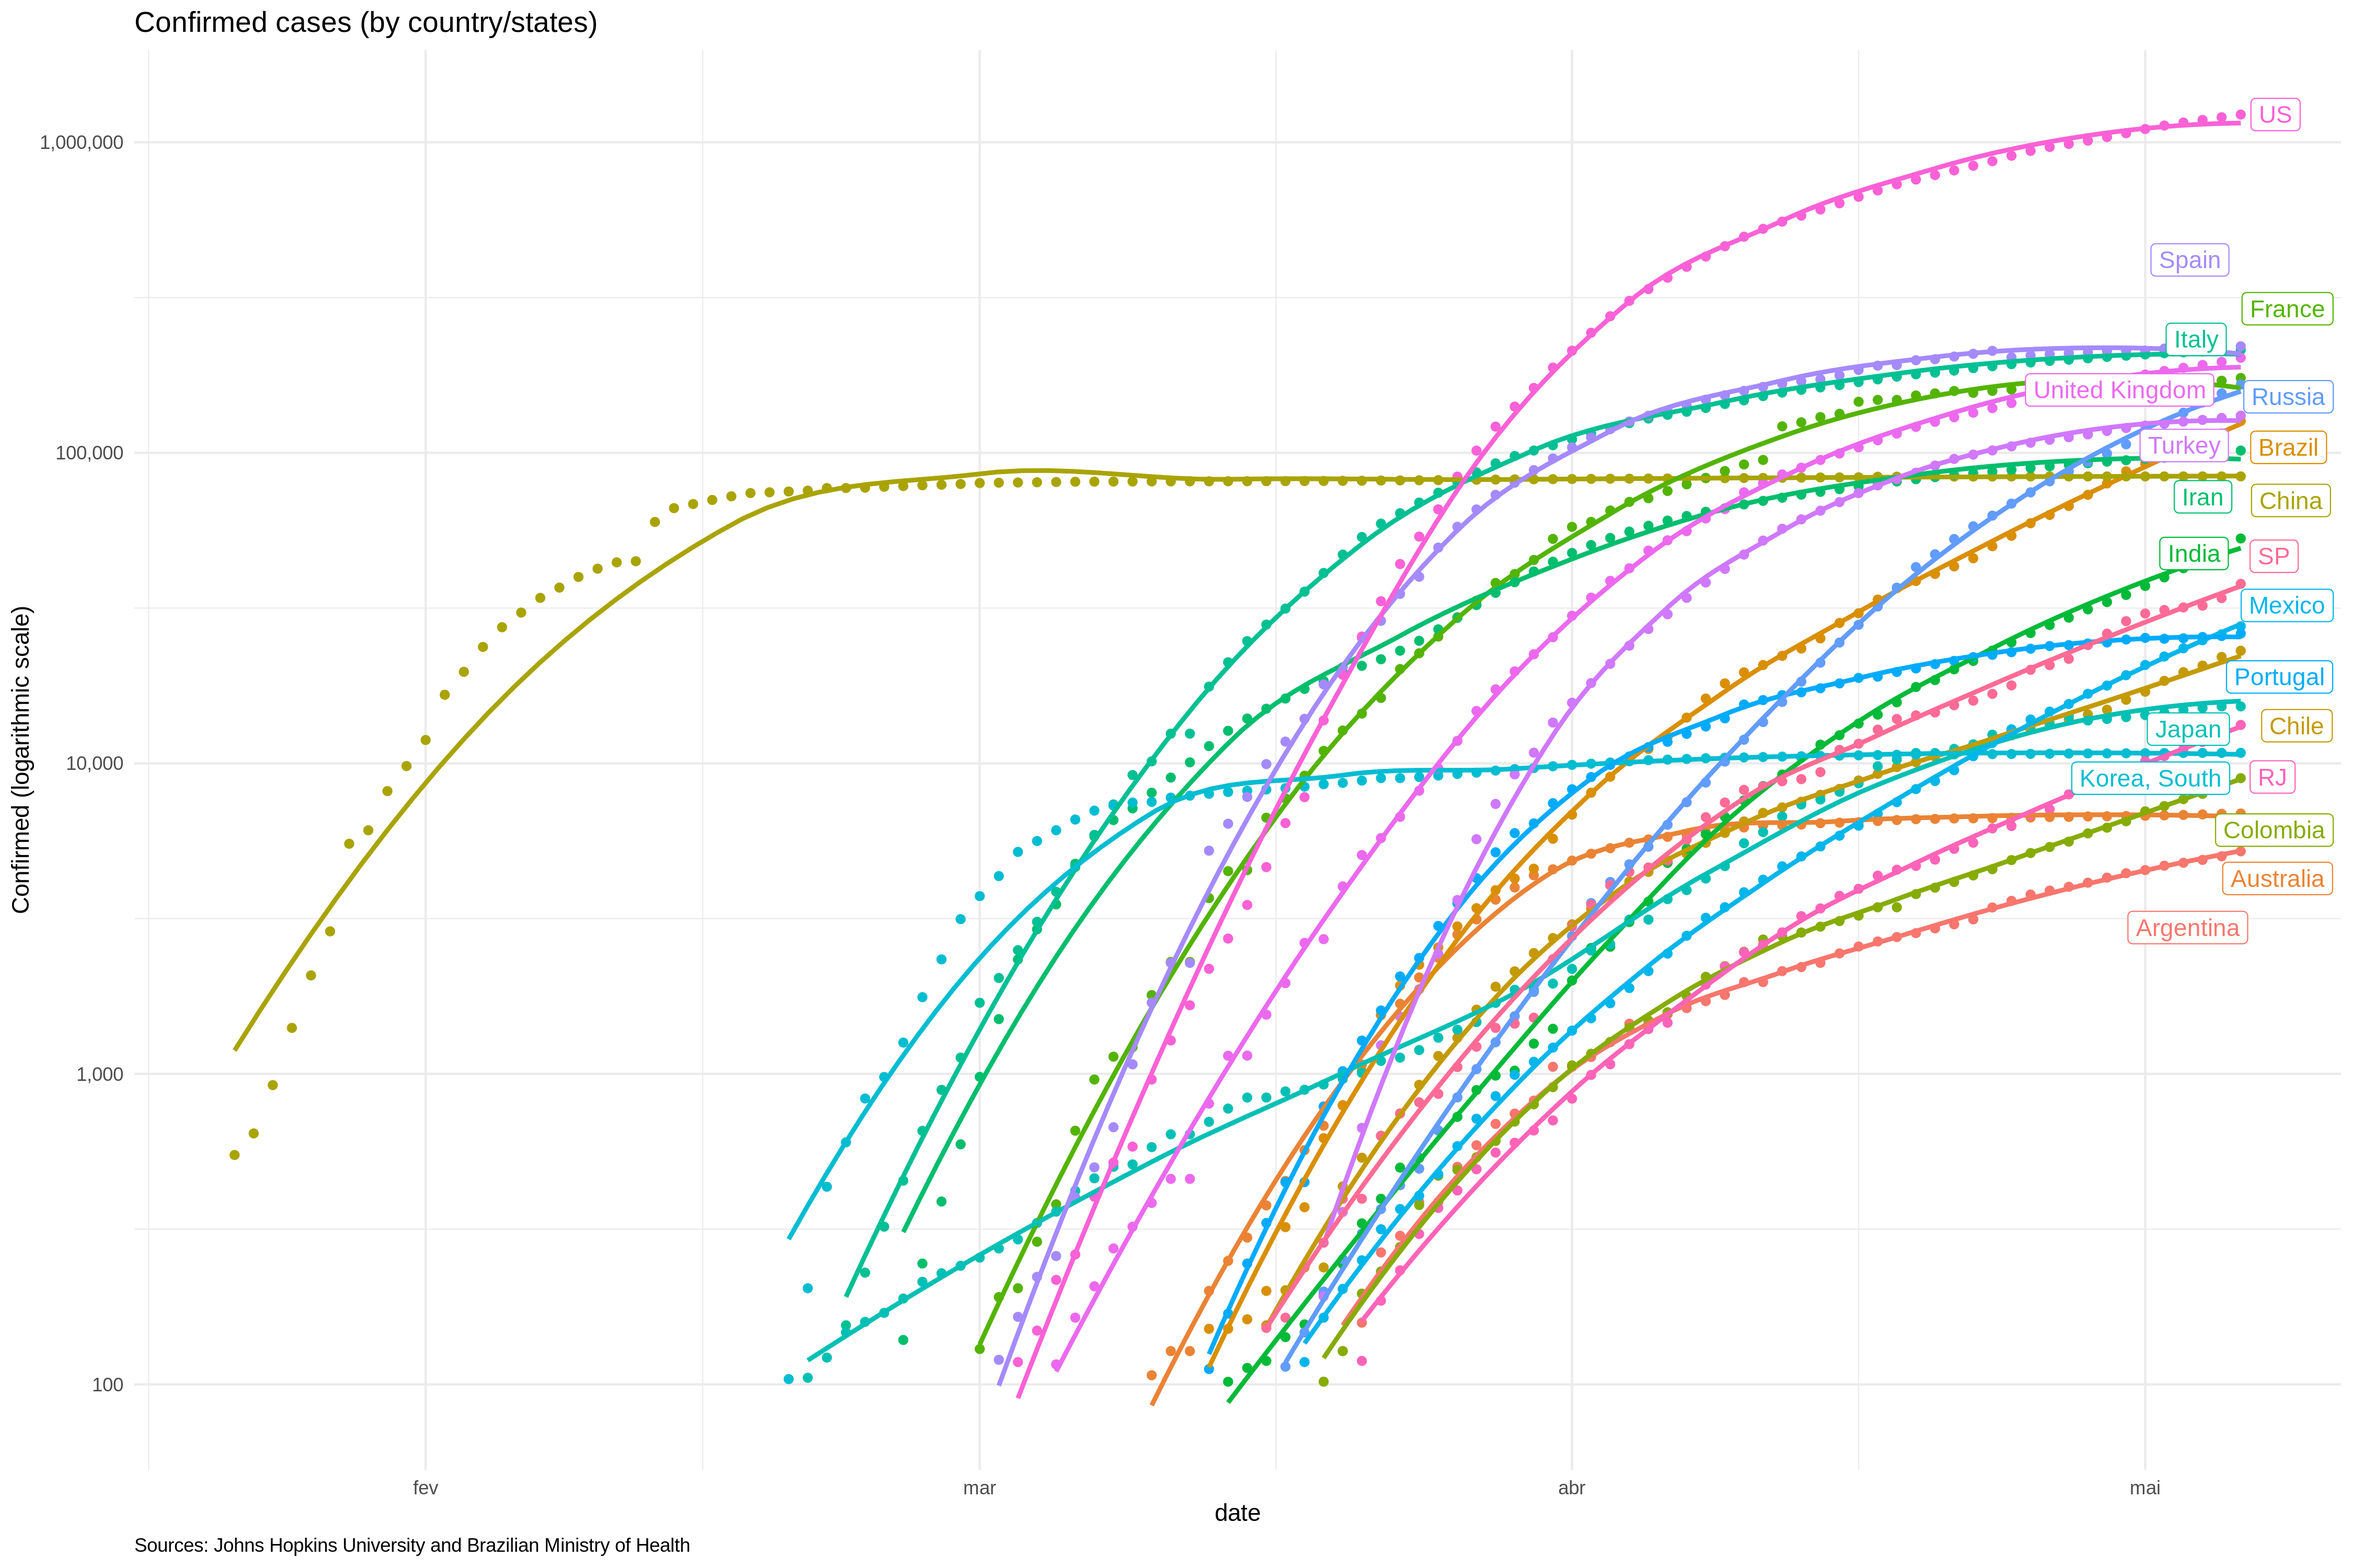
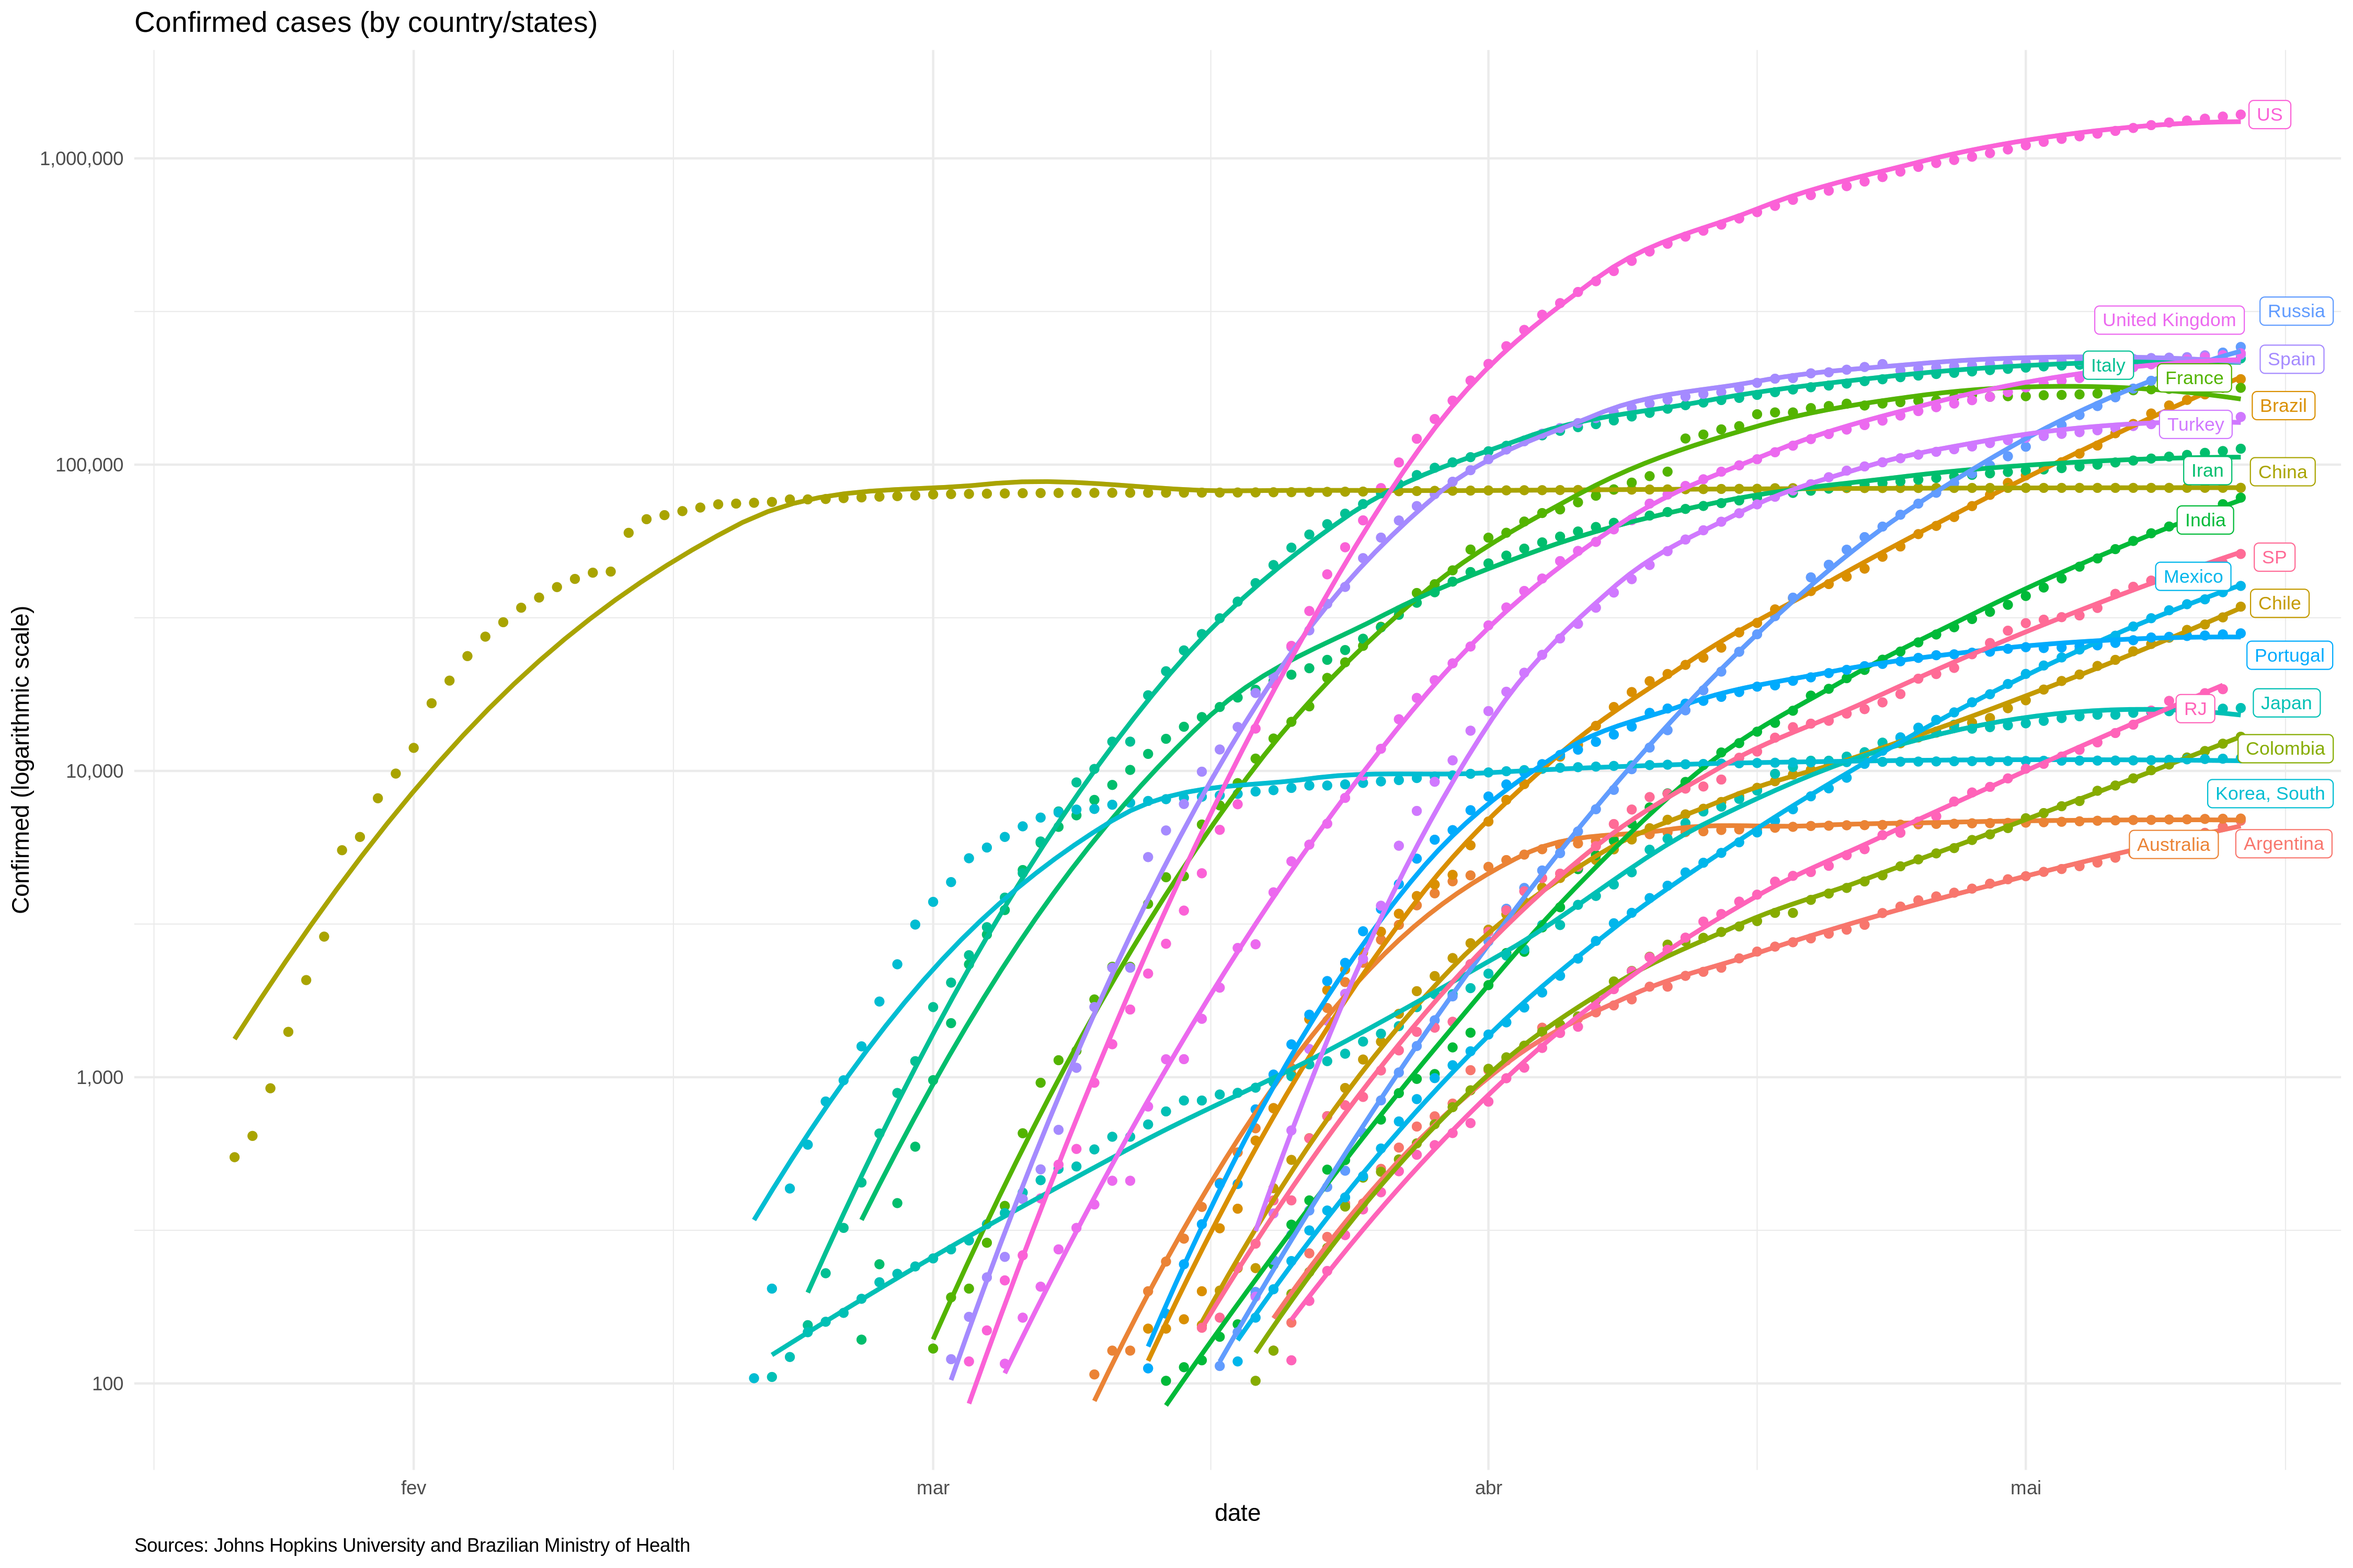
update 13th may

diff --git a/README.md b/README.md
@@ -7,7 +7,7 @@
 
 Data Sources: Johns Hopkins University and Brazilian Ministry of Health
 
-Updated until **May 4, 2020**
+Updated until **May 13, 2020**
 
 Please, refer to [this dashboard](https://jgassen.shinyapps.io/tidycovid19/) for a "more dynamic" exploratory analysis
         
